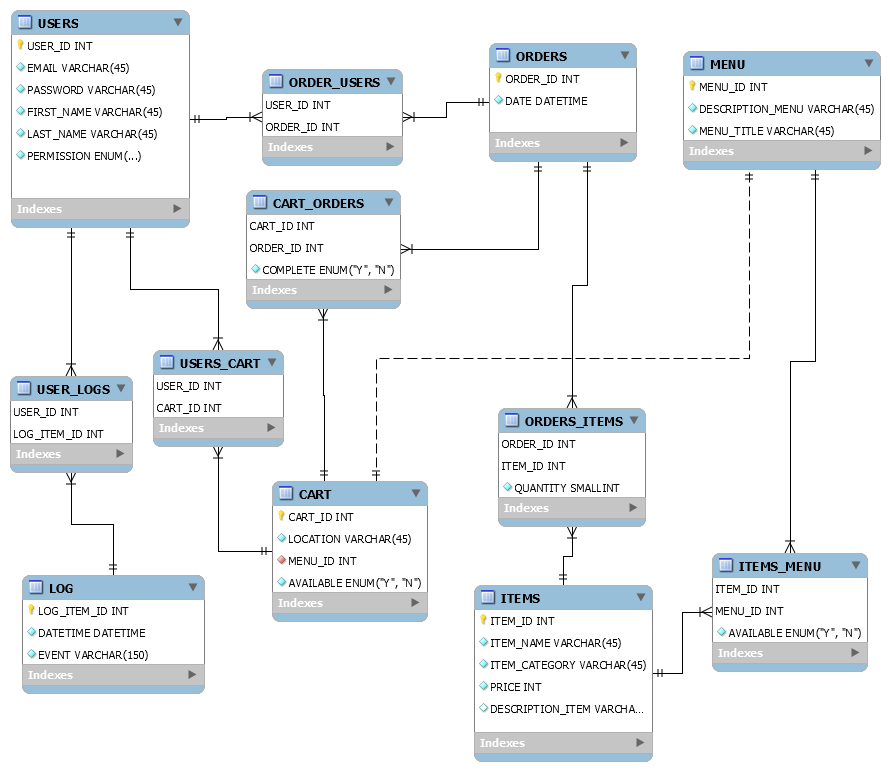
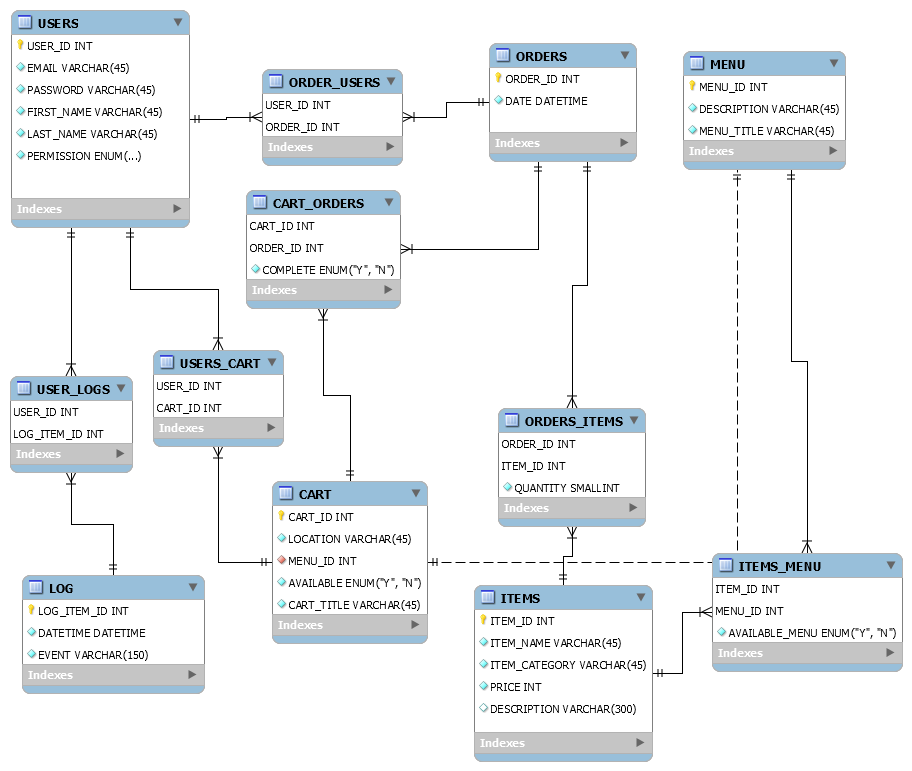
updating database to support only showing available menu items

diff --git a/back-end/routes/customerMenu.js b/back-end/routes/customerMenu.js
@@ -1,7 +1,6 @@
 let express = require('express');
 let router = express.Router();
 const db = require('../database/connection');
-let tempdata = require('./testdata.json')
 
 router.put('/order', async(req, res, next) => {
   tempdata = req.body;
